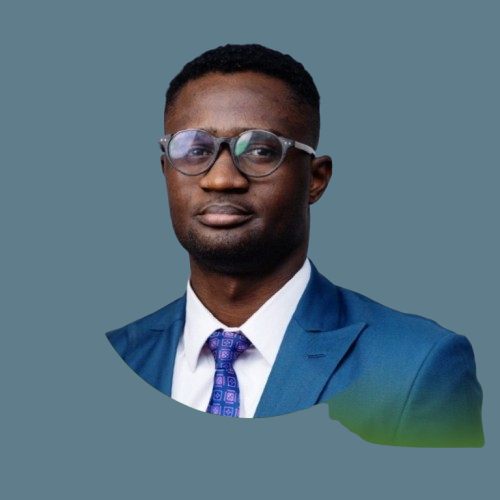
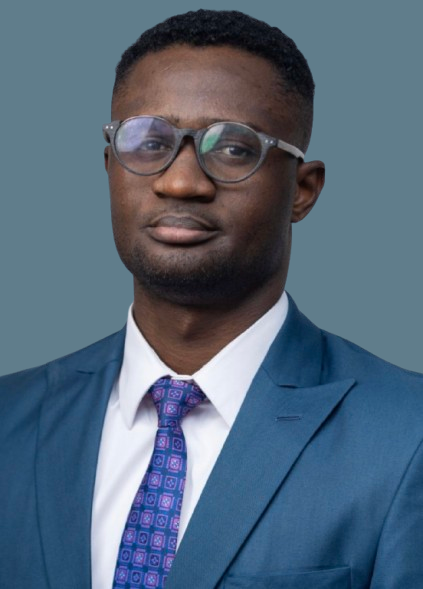
Update team member details and add LinkedIn profiles
- Modified roles and bios for several team members for clarity and accuracy.
- Added LinkedIn profile links for team members to enhance professional visibility.
- Updated image file for James Hanson to reflect the new naming convention.

diff --git a/src/data/content.ts b/src/data/content.ts
@@ -889,54 +889,63 @@ export const teamContent = {
   members: [
     {
       name: "Sewu-Steve Tawia",
-      role: "Managing Director & Chairman",
-      bio: "Global — 25+ years in finance and development.",
+      role: "Global MD & West Africa",
       image: "/images/Team/Sewu.png",
+      linkedin: "https://www.linkedin.com/in/stevetawia",
+    },
+    {
+      name: "Abena Opoku-Acquah",
+      role: "Principal — West Africa",
+      image: "/images/Team/Abena.png",
+      linkedin: "https://www.linkedin.com/in/abenaopokuacquah/",
     },
     {
       name: "Freda Egyir",
       role: "Chief of Staff & Project Management",
       image: "/images/Team/Freda.png",
-    },
-    {
-      name: "Abena Opoku-Acquah",
-      role: "Head of Advisory, Ghana",
-      bio: "15+ years in impact investing, venture capital and venture debt.",
-      image: "/images/Team/Abena.png",
+      linkedin: "https://www.linkedin.com/in/freda-egyir-4408161a1/",
     },
     {
       name: "Emmanuel Devi",
-      role: "Head of Engineering, Ghana",
-      bio: "Hardware and software expert — EIR.",
+      role: "Head of Engineering & AI",
       image: "/images/Team/Emmauel.png",
-    },
-    {
-      name: "Benson Njiru Njagi",
-      role: "Kenya — East Africa",
-      bio: "16+ years investments track record.",
-      image: "/images/Team/Benson.png",
+      linkedin: "https://www.linkedin.com/in/emmanuel-devi-428721244/",
     },
     {
       name: "Prince Krampah",
       role: "AI/ML Engineer",
-      bio: "Tanzania — Belgium.",
       image: "/images/Team/prince.png",
+      linkedin: "https://www.linkedin.com/in/princekrampah/",
     },
     {
-      name: "James Caulley Hanson",
-      role: "Senior Analyst — Financial Modelling",
-      bio: "Venture builder.",
-      image: "/images/Team/James.png",
+      name: "James Hanson",
+      role: "Investment Associate & Financial Modelling",
+      image: "/images/Team/james.png",
+      linkedin: "https://www.linkedin.com/in/jameshanson27/",
     },
     {
-      name: "Seyram Ametepe",
-      role: "Financial Modelling, Marketing & Communications",
+      name: "Seyram Ametepeh",
+      role: "Investment Analyst & Media and Communications",
       image: "/images/Team/Seyram.png",
+      linkedin: "https://www.linkedin.com/in/seyram-ametepeh/",
+    },
+    {
+      name: "Benson Njiru",
+      role: "MD East Africa",
+      image: "/images/Team/Benson.png",
+      linkedin: "https://www.linkedin.com/in/benson-njiru-njagi/",
+    },
+    {
+      name: "Betty Nduku",
+      role: "Investment Analyst — East Africa",
+      image: "/images/Team/Betty.png",
+      linkedin: "https://www.linkedin.com/in/betty-nduku-095733150/",
     },
     {
       name: "Prudence Mbolu",
       role: "Investment Analyst & Project Management",
       image: "/images/Team/Prudence.png",
+      linkedin: "https://www.linkedin.com/in/prudence-mbolu/",
     },
   ] as TeamMember[],
 };
